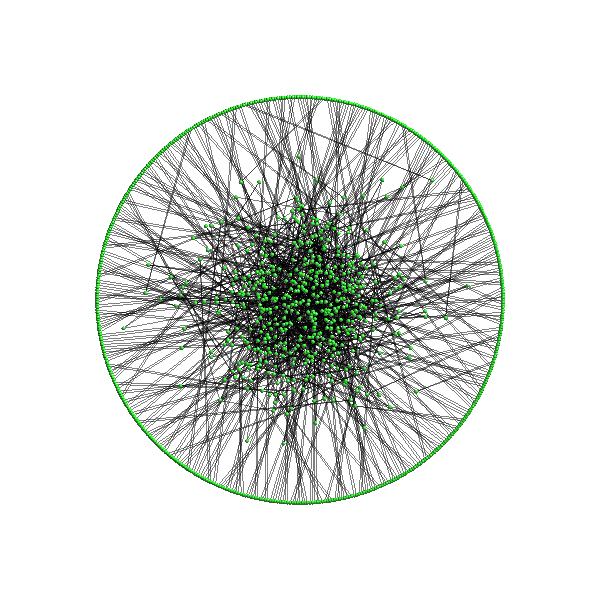
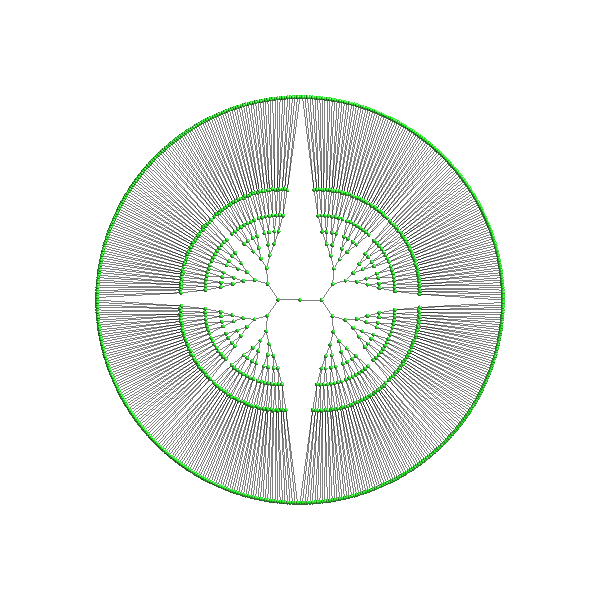
fix: IPCLayout examples

Changed region(s): [[0.15, 0.15, 0.84, 0.84]]

diff --git a/docs/examples/viz_helios3d.py b/docs/examples/viz_helios3d.py
@@ -1,22 +1,20 @@
 """
-======================
-ForceAtlas2: SBM Model
-======================
+=======================================
+Force-Directed: SBM Model and 3d Layout
+=======================================
 
 The goal of this example is to show how to use the Helios Network
-draw with the ForceAtlas2 from cugraph. To run this you should
-have python 3.8 or greater and cudf/cugraph installed.
+draw with the Helios Force-Directed. To run this you should
+have python 3.8 or greater.
 
 """
 import numpy as np
 import networkx as nx
-import time
 import argparse
 from fury.window import record
 
 from helios import NetworkDraw
-from helios.layouts import ForceAtlas2
-from helios.layouts.forceatlas2gpu import CUDF_AVAILABLE
+from helios.layouts import HeliosFr
 
 parser = argparse.ArgumentParser()
 parser.add_argument(
@@ -53,7 +51,7 @@ colors = np.array(
 markers = [['o', 's', 'd'][i//s] for i in range(len(g))]
 edge_colors = np.array(edge_colors).astype('float64')
 
-centers = np.random.normal(size=(len(g), 2))
+centers = np.random.normal(size=(len(g), 3))
 
 network_draw = NetworkDraw(
         positions=centers,
@@ -66,25 +64,21 @@ network_draw = NetworkDraw(
         window_size=(600, 600)
 )
 
-if not CUDF_AVAILABLE:
-    print('To run this example we should install cugraph first')
-else:
-    forceatlas2 = ForceAtlas2(
-        edges, network_draw,
-    )
-    if not interactive:
-        forceatlas2.start(3, 1, 300, False)
-        time.sleep(10)
-        network_draw.refresh()
-        forceatlas2.stop()
-    else:
-        forceatlas2.start(
-            3, 300, 1,
-            record_positions=True, without_iren_start=False)
+
+layout = HeliosFr(
+    edges, network_draw, update_interval_workers=0, max_workers=2)
+
+###############################################################################
+# The final step ! Visualize and save the result of our creation! Please,
+# switch interactive variable to True if you want to visualize it.
+
+if not interactive:
+    layout.steps(100)
     record(
-        network_draw.showm.scene,
-        out_path='viz_forceatlas2gpu.png', size=(600, 600))
+        network_draw.showm.scene, out_path='viz_helios2d.png', size=(600, 600))
 
 if interactive:
+    layout.start()
     network_draw.showm.initialize()
     network_draw.showm.start()
+

diff --git a/docs/notebooks/viz_helios.py b/docs/notebooks/viz_helios.py
@@ -13,11 +13,10 @@ indicates a citation between two of them.
 # First, let's import some useful functions
 
 from os.path import join as pjoin
-import time
 from fury import colormap as cmap
 from fury.window import record
 import numpy as np
-
+import argparse
 ###############################################################################
 # Then let's download some available datasets.
 
@@ -26,7 +25,13 @@ from fury.data.fetcher import fetch_viz_wiki_nw
 from helios import NetworkDraw
 from helios.layouts.force_directed import HeliosFr
 
-interactive = False
+parser = argparse.ArgumentParser()
+parser.add_argument(
+    '--interactive', dest='interactive', default=True, action='store_false')
+args = parser.parse_args()
+
+interactive = args.interactive
+
 files, folder = fetch_viz_wiki_nw()
 categories_file, edges_file, positions_file = sorted(files.keys())
 
@@ -96,13 +101,12 @@ layout = HeliosFr(
 # switch interactive variable to True if you want to visualize it.
 
 if not interactive:
-    layout.steps(1000)
+    layout.steps(300)
+    record(
+        network_draw.showm.scene, out_path='viz_helios.png', size=(600, 600))
 
 if interactive:
     layout.start()
     network_draw.showm.initialize()
     network_draw.showm.start()
     layout.stop()
-
-    record(
-        network_draw.showm.scene, out_path='viz_helios.png', size=(600, 600))

diff --git a/docs/examples/viz_mde.py b/docs/examples/viz_mde.py
@@ -6,7 +6,6 @@ Minmum Distortion Embedding: Anchored Constraints
 """
 
 import numpy as np
-import time
 import argparse
 
 from fury.window import record
@@ -22,6 +21,7 @@ parser.add_argument(
 args = parser.parse_args()
 
 interactive = args.interactive
+print(interactive)
 depth = 9
 n_items = 2**(depth + 1) - 1
 
@@ -73,12 +73,11 @@ mde = MDE(
 
 
 if not interactive:
-    mde.start(
-        1, 1, 300,
-        record_positions=False, without_iren_start=True)
-    time.sleep(30)
+    exec(mde._command_string(1, 300))
+    mde.update()
     network_draw.refresh()
-    mde.stop()
+    record(
+        network_draw.showm.scene, out_path='viz_mde.png', size=(600, 600))
 else:
     mde.start(
         3, 300, 1,
@@ -88,5 +87,3 @@ if interactive:
     network_draw.showm.initialize()
     network_draw.showm.start()
 
-record(
-    network_draw.showm.scene, out_path='viz_mde.png', size=(600, 600))

diff --git a/docs/examples/viz_helios2d.py b/docs/examples/viz_helios2d.py
@@ -22,7 +22,6 @@ parser.add_argument(
 args = parser.parse_args()
 
 interactive = args.interactive
-interactive = False
 size = 1000
 s = size
 sizes = [s, s, s]
@@ -75,11 +74,11 @@ layout = HeliosFr(
 
 if not interactive:
     layout.steps(100)
+    record(
+        network_draw.showm.scene, out_path='viz_helios2d.png', size=(600, 600))
 
 if interactive:
     layout.start()
     network_draw.showm.initialize()
     network_draw.showm.start()
 
-record(
-    network_draw.showm.scene, out_path='viz_helios2d.png', size=(600, 600))

diff --git a/helios/layouts/base.py b/helios/layouts/base.py
@@ -195,7 +195,7 @@ class NetworkLayoutIPCRender(ABC):
         self._id_timer = None
         self._pserver = None
         self._network_draw = network_draw
-        self._record_positions = True
+        self._record_positions = False
         self._dimension = 2 if network_draw._is_2d else 3
         self._shm_manager = ShmManagerMultiArrays()
         self._shm_manager.add_array(
